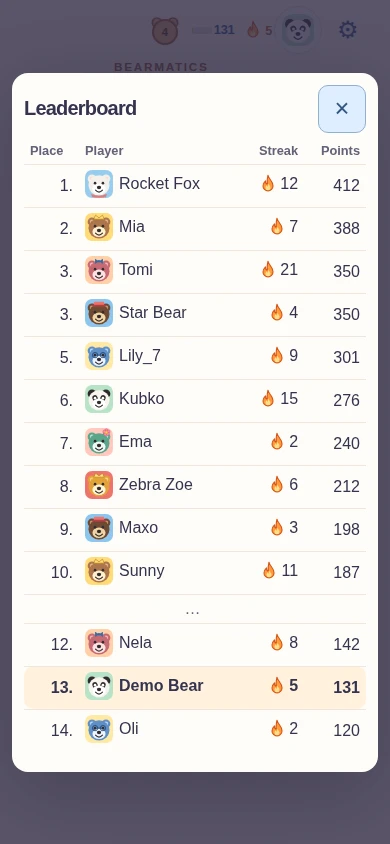
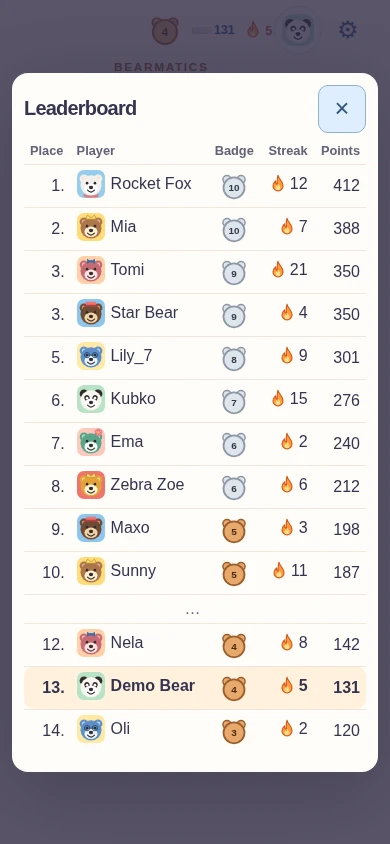
SCRUM-258: About page mentions the bear badge on the leaderboard; leaderboard screenshots re-shot from demo data

diff --git a/src/about/aboutCopy.ts b/src/about/aboutCopy.ts
@@ -62,7 +62,7 @@ export const aboutCopy = {
       'Sign in with Google or a username and password to collect points: 1 point for each exercise right on the first try in a finished lesson.',
       'An easy level played again on one day gives fewer points: from the 3rd play half, from the 5th play a quarter (rounded up). The first play of the day of a harder level (Maths levels 4–7, level 3 of Small maths and English) gives 1.5 times the points. A small sign in the level menu shows this for the next play: ★, 1/2 or 1/4.',
       'Points grow your bear badge. Play every day to build a streak; missed days freeze it and points can unlock it.',
-      'A leaderboard shows nickname, bear, streak and points of players; you can hide yourself in the profile.',
+      'A leaderboard shows nickname, bear, bear badge, streak and points of players; you can hide yourself in the profile.',
       'The profile is only a nickname and a bear your child dresses from parts (fur, background, something for the head, neck and eyes); the bear look is stored as five numbers, no photo or real name. The account can be deleted any time.',
     ],
     dataTitle: 'Your data',
@@ -98,7 +98,7 @@ export const aboutCopy = {
       },
       leaderboard: {
         caption: 'Leaderboard',
-        alt: 'The leaderboard with made-up players: places 1 to 10, two players sharing place 3, then places 12 to 14 with the test player Demo Bear at place 13.',
+        alt: 'The leaderboard with made-up players and their bear badges: places 1 to 10, two players sharing place 3, then places 12 to 14 with the test player Demo Bear at place 13.',
       },
     } satisfies Record<Shot, ShotCopy>,
   },
@@ -141,7 +141,7 @@ export const aboutCopy = {
       'Prihlásenie cez Google alebo menom a heslom zbiera body: 1 bod za každý príklad správne na prvý pokus v dokončenej lekcii.',
       'Ľahká úroveň zahraná v jeden deň znova dáva menej bodov: od 3. hry polovicu, od 5. hry štvrtinu (zaokrúhlené nahor). Prvá hra dňa na ťažšej úrovni (Matematika úrovne 4–7, úroveň 3 v Malej matematike a Angličtine) dáva 1,5-násobok bodov. Malá značka v ponuke úrovní to ukazuje pre ďalšiu hru: ★, 1/2 alebo 1/4.',
       'Body zväčšujú medvedí odznak. Hraj každý deň a buduj sériu; vynechané dni ju zmrazia a body ju môžu odomknúť.',
-      'Rebríček ukazuje prezývku, medveďa, sériu a body hráčov; v profile sa môžeš skryť.',
+      'Rebríček ukazuje prezývku, medveďa, medvedí odznak, sériu a body hráčov; v profile sa môžeš skryť.',
       'Profil je len prezývka a medvedík, ktorého si dieťa oblečie z dielikov (srsť, pozadie, niečo na hlavu, krk a oči); vzhľad medvedíka sa ukladá ako päť čísel, žiadna fotka ani skutočné meno. Účet sa dá kedykoľvek zmazať.',
     ],
     dataTitle: 'Vaše údaje',
@@ -177,7 +177,7 @@ export const aboutCopy = {
       },
       leaderboard: {
         caption: 'Rebríček',
-        alt: 'Rebríček s vymyslenými hráčmi: miesta 1 až 10, dvaja hráči na spoločnom 3. mieste, potom miesta 12 až 14 s testovacím hráčom Demo Bear na 13. mieste.',
+        alt: 'Rebríček s vymyslenými hráčmi a ich medvedími odznakmi: miesta 1 až 10, dvaja hráči na spoločnom 3. mieste, potom miesta 12 až 14 s testovacím hráčom Demo Bear na 13. mieste.',
       },
     } satisfies Record<Shot, ShotCopy>,
   },

diff --git a/src/about/About.test.tsx b/src/about/About.test.tsx
@@ -259,3 +259,12 @@ test.each([
   render(<AboutPage language={language} />);
   expect(screen.getByText(sentence)).toBeInTheDocument();
 });
+
+test('SCRUM-258: the leaderboard sentence mentions the bear badge (EN and SK)', () => {
+  expect(aboutCopy.en.signIn).toContain(
+    'A leaderboard shows nickname, bear, bear badge, streak and points of players; you can hide yourself in the profile.',
+  );
+  expect(aboutCopy.sk.signIn).toContain(
+    'Rebríček ukazuje prezývku, medveďa, medvedí odznak, sériu a body hráčov; v profile sa môžeš skryť.',
+  );
+});
